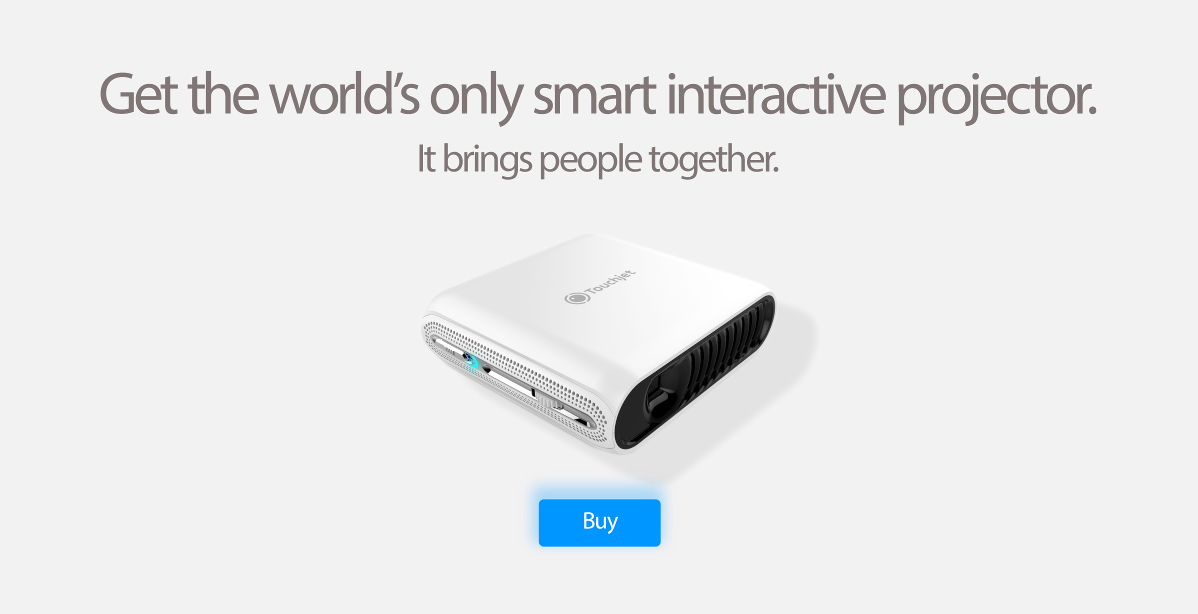
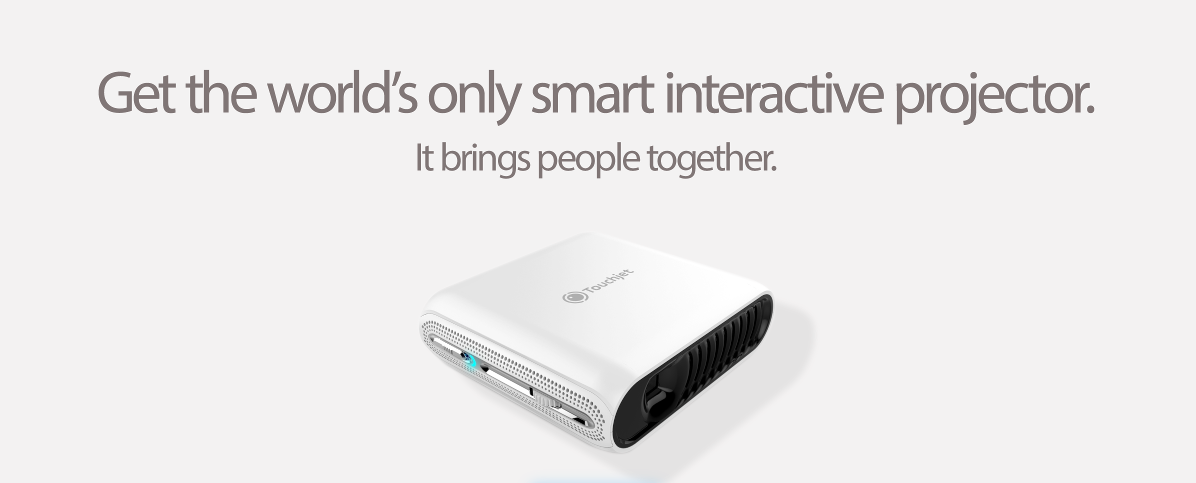
Panel 2 fixes. Panel 7 button.

diff --git a/dcs-billboard-page.css b/dcs-billboard-page.css
@@ -24,7 +24,7 @@
     top: 300px;
 }
 
-#bg-panel  {
+#dcs-bg-panel  {
    	margin: 0 auto;
 	width: 85%;
     z-index: -15;
@@ -48,9 +48,37 @@
 }
 
 #bg-panel-2 { 
-	background-image: url(./images/panel2.png);
-    background-repeat: no-repeat;
-    background-size: contain; 
+}
+
+#bg-panel-2 div.left  {
+    float: left;
+    width: 60%;
+    padding-top: 40px;
+    padding-left: 50px;
+}
+
+#bg-panel-2 div.right {
+    float: right;
+    width: 40%;
+}
+
+hr.blue-line {
+    border-top: 2px  #4d7fad solid;
+    width: 65%; 
+    margin: 0 auto;
+}
+
+.bg-panel ul {
+    list-style-image: url('./images/gray-dot.png');
+    vertical-align: top;
+}   
+
+.bg-panel ul li:hover {
+    list-style-image: url('./images/blue-dot.png');
+    font-size: 280%;
+    padding-top: 20px;
+    padding-bottom: 20px;
+    vertical-align: top;
 }
 
 #bg-panel-3 { 
@@ -72,14 +100,31 @@
 }
 
 #bg-panel-6 { 
-	background-image: url(./images/panel6.png);
+    margin-top: 20px;
+	//background-image: url(./images/panel6.png);
     background-repeat: no-repeat;
     background-size: contain; 
 }
 
 #bg-panel-7 { 
-	background-image: url(./images/panel7.png);
+    margin-top: 30px;
+	//background-image: url(./images/panel7.png);
     background-repeat: no-repeat;
     background-size: contain; 
 }
 
+a.buy-button {     
+    background-color: #2b84c6;
+    color: white;
+    font-size: 150%;
+    font-weight: bold;
+    padding: 10px 25px;
+    border-radius: 5px;
+    box-shadow: inset 0 1px 0 rgba(255, 255, 255, 0.4), 0 1px 1px rgba(0,0,0,0.2);
+    text-shadow: 0 -1px 0 rgba(0,0,0,0.4);
+}
+
+a.buy-button:hover,  a.buy-button:focus {
+    border: solid 1px #2a4e77;
+    text-decoration: none;
+}

diff --git a/dcs-billboard-page.php b/dcs-billboard-page.php
@@ -69,7 +69,28 @@ function dcs_billboard_page_getPanel($index)
 			$retval .= "	<img id='bg-panel-".$index."' src='".plugin_dir_url(__FILE__)."/images/panel".$index."_0.png'>";
 			$retval .= "</div>";
 			break;
-		default:
+        case 2:
+            $retval .= "<div class='bg-panel' id='bg-panel-2'>";
+            $retval .= "<div class='left'>";
+            $retval .= "<ul>";
+            $retval .= "<li>Connect anywhere there's WIFI -- no other devices or wires required.</li>";
+            $retval .= "<li>Download your favorite apps and content right onto the touchjet pond.</li>";
+            $retval .= "<li>Control your apps right on the wall with a stylus or air mouse.</li>";
+            $retval .= "</ul>";
+            $retval .= "</div><div class='right'>";
+            $retval .= "<hr class='blue-line'>";
+            $retval .= "</div>";
+            $retval .= "</div>";
+            break;
+        case 7:
+	    	$retval .= "<div class='bg-panel' id='bg-panel-".$index."'>";
+			$retval .= "	<img id='bg-panel-".$index."' src='".plugin_dir_url(__FILE__)."/images/panel".$index.".png'>";
+	        $retval .= "<div style='margin: 10px auto;width:0%;'>";
+            $retval .= "<a class='buy-button' href='".site_url("/buy")."'>Buy</a>";
+            $retval .= "</div>";
+		    $retval .= "</div>";
+            break;
+	default:
 			$retval .= "<div class='bg-panel' id='bg-panel-".$index."'>";
 			$retval .= "	<img id='bg-panel-".$index."' src='".plugin_dir_url(__FILE__)."/images/panel".$index.".png'>";
 			$retval .= "</div>";
